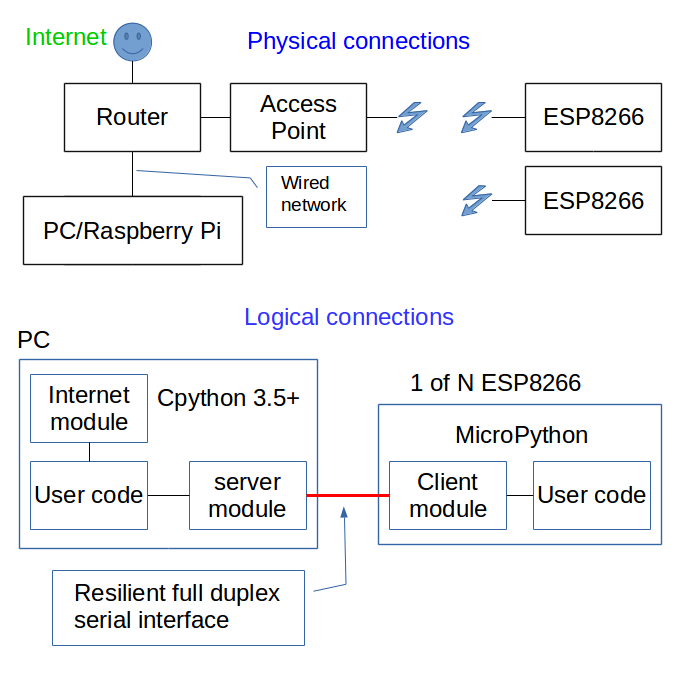
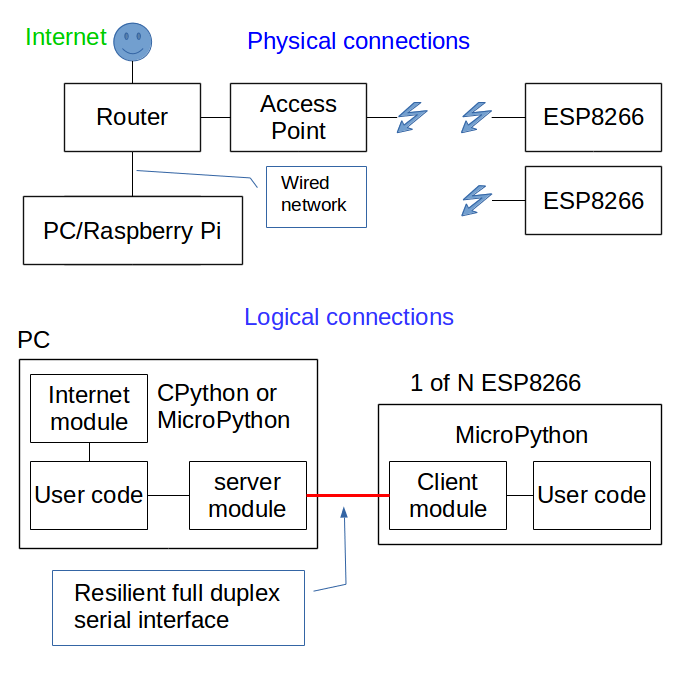
Server side: make code portable to MicroPython.

diff --git a/server_cp.py b/server_cp.py
@@ -10,13 +10,23 @@
 # This server and the server applications are assumed to reside on a device
 # with a wired interface on the local network.
 
-# Run under CPython 3.5+
+# Run under CPython 3.5+ or MicroPython Unix build
+import sys
+upython = sys.implementation.name == 'micropython'
+if upython:
+    import usocket as socket
+    import uasyncio as asyncio
+    import utime as time
+    import uselect as select
+    import uerrno as errno
+    import primitives
+else:
+    import socket
+    import asyncio
+    import time
+    import select
+    import errno
 
-import socket
-import asyncio
-import time
-import select
-import errno
 from local import PORT, TIMEOUT
 
 TO_SECS = TIMEOUT / 1000  # ms to seconds
@@ -32,9 +42,11 @@ async def _readid(s):
     while True:
         try:
             d = s.recv(1).decode()
-        except socket.error as e:
+        except OSError as e:
             err = e.args[0]
-            if err == errno.EAGAIN or err == errno.EWOULDBLOCK:
+            if err == errno.EAGAIN:
+                # Note: did have or err == errno.EWOULDBLOCK. Not supported in
+                # upython. In cpython EWOULDBLOCK == EAGAIN == 11.
                 await asyncio.sleep(TIM_SHORT)
             else:
                 raise OSError  # Reset by peer 104
@@ -52,7 +64,9 @@ async def client_conn(client_id):
     while True:
         if client_id in Connection.conns:
             c = Connection.conns[client_id]
-            await c
+            # await c 
+            # works but under CPython produces runtime warnings. So do:
+            await c._status_coro()
             return c
         await asyncio.sleep(0.5)
 
@@ -105,9 +119,10 @@ class Connection:
         if cls.server_sock is None:  # 1st invocation
             cls.server_sock = s_sock
             cls.expected.update(expected)
-        if client_id not in cls.conns:  # New client: instantiate Connection
-            Connection(loop, client_id, verbose)
-        cls.conns[client_id].sock = c_sock
+        if client_id in cls.conns:  # Old client, new socket
+            cls.conns[client_id].sock = c_sock
+        else: # New client: instantiate Connection
+            Connection(loop, c_sock, client_id, verbose)
 
     @classmethod
     def close_all(cls):
@@ -116,7 +131,8 @@ class Connection:
         if cls.server_sock is not None:
             cls.server_sock.close()
 
-    def __init__(self, loop, client_id, verbose):
+    def __init__(self, loop, c_sock, client_id, verbose):
+        self.sock = c_sock  # Socket
         self.client_id = client_id
         self.verbose = verbose
         Connection.conns[client_id] = self
@@ -124,23 +140,25 @@ class Connection:
             Connection.expected.remove(client_id)
         except KeyError:
             print('Warning: unexpected or duplicate client:', client_id, Connection.expected)
-        self.lock = asyncio.Lock()
-        self.sock = None  # Socket
+        if upython:
+            self.lock = primitives.Lock()
+        else:
+            self.lock = asyncio.Lock()
         loop.create_task(self._keepalive())
         self.lines = []
         loop.create_task(self._read())
 
     async def _read(self):
         while True:
-            await self
+            await self._status_coro()
             buf = bytearray()
             start = time.time()
             while self.status():
                 try:
                     d = self.sock.recv(4096)
-                except socket.error as e:
+                except OSError as e:
                     err = e.args[0]
-                    if err == errno.EAGAIN or err == errno.EWOULDBLOCK:
+                    if err == errno.EAGAIN:
                         if time.time() - start > TO_SECS:
                             self._close()
                         await asyncio.sleep(TIM_TINY)  # Limit CPU utilisation
@@ -148,7 +166,7 @@ class Connection:
                         self._close()  # Reset by peer 104
                 else:
                     start = time.time()  # Something was received
-                    if d == '':  # Reset by peer
+                    if d == b'':  # Reset by peer
                         self._close()
                     elif d is not None:
                         buf.extend(d)
@@ -162,7 +180,13 @@ class Connection:
         return self.sock is not None
 
     def __await__(self):
-        return self._status_coro().__await__()
+        if upython:
+            while not self.status():
+                yield TIM_SHORT
+        else:
+            return self._status_coro().__await__()
+    
+    __iter__ = __await__
 
     async def _status_coro(self):
         while not self.status():
@@ -172,7 +196,7 @@ class Connection:
         while True:
             if self.verbose and not self.status():
                 print('Reader Client:', self.client_id, 'awaiting OK status')
-            await self
+            await self._status_coro()
             self.verbose and print('Reader Client:', self.client_id, 'OK')
             while self.status():
                 if len(self.lines):
@@ -197,7 +221,7 @@ class Connection:
         while True:
             if self.verbose and not self.status():
                 print('Writer Client:', self.client_id, 'awaiting OK status')
-            await self
+            await self._status_coro()
             self.verbose and print('Writer Client:', self.client_id, 'OK')
             try:
                 async with self.lock:  # >1 writing task?
@@ -220,8 +244,8 @@ class Connection:
         while len(d):
             try:
                 ns = self.sock.send(d)  # Raise OSError if client fails
-            except socket.error as e:
-                raise OSError
+            except OSError:
+                raise
             else:
                 d = d[ns:]
                 if len(d):

diff --git a/comms/s_comms_cp.py b/comms/s_comms_cp.py
@@ -7,14 +7,25 @@
 
 # Released under the MIT licence.
 # Copyright (C) Peter Hinch 2018
+import sys
+upython = sys.implementation.name == 'micropython'
 
-import asyncio
-import json
+if upython:
+    import uasyncio as asyncio
+    import ujson as json
+    import primitives
+else:
+    import asyncio
+    import json
 import server_cp as server
+
 
 class App():
     data = None
-    trig_send = asyncio.Event()
+    if upython:
+        trig_send = primitives.Event()
+    else:
+        trig_send = asyncio.Event()
     def __init__(self, loop, client_id):
         self.client_id = client_id  # This instance talks to this client
         self.conn = None  # Connection instance

diff --git a/qos/s_qos_cp.py b/qos/s_qos_cp.py
@@ -9,10 +9,16 @@
 
 # The App class emulates a user application intended to service a single
 # client.
-
-import asyncio
-import json
+try:
+    import asyncio
+except ImportError:
+    import uasyncio as asyncio
+try:
+    import json
+except ImportError:
+    import ujson as json
 import server_cp as server
+
 from local import TIMEOUT
 
 class App():

diff --git a/s_app_cp.py b/s_app_cp.py
@@ -11,8 +11,14 @@
 # client. In this case we have four instances of the application servicing
 # clients with ID's 1-4.
 
-import asyncio
-import json
+try:
+    import asyncio
+except ImportError:
+    import uasyncio as asyncio
+try:
+    import json
+except ImportError:
+    import ujson as json
 import server_cp as server
 
 class App:

diff --git a/primitives.py b/primitives.py
@@ -46,6 +46,10 @@ class Event:
         self._flag = False
         self._data = None
 
+    async def wait(self):  # CPython comptaibility
+        while not self._flag:
+            await asyncio.sleep_ms(self.delay_ms)
+
     def __iter__(self):
         while not self._flag:
             yield from asyncio.sleep_ms(self.delay_ms)

diff --git a/README.md b/README.md
@@ -20,8 +20,8 @@ is capable of long term reliable operation. It does suffer from limited
 resources, in particular RAM. Achieving resilient operation in the face of WiFi
 or server outages is not straightforward: see
 [this document](https://github.com/peterhinch/micropython-samples/tree/master/resilient).
-The approach advocated here radically simplifies writing resilient ESP8266 IOT
-applications.
+The approach advocated here simplifies writing resilient ESP8266 IOT
+applications by providing a communications channel with inherent resilience.
 
 The usual arrangement for MicroPython internet access is as below.
 ![Image](images/block_diagram_orig.png)
@@ -37,10 +37,11 @@ Running internet protocols on ESP8266 nodes has the following drawbacks:
  5. Internet applications can be demanding of RAM.
 
 This document proposes an alternative where the ESP8266 nodes communicate with
-a local server. This runs CPython code and supports the internet protocol
-required by the application. The server and the ESP8266 nodes communicate using
-a simple protocol based on the exchange of lines of text. The server can run on
-a Linux box such as a Raspberry Pi; this can run 24/7 at minimal running cost.
+a local server. This runs CPython or MicroPython code and supports the internet
+protocol required by the application. The server and the ESP8266 nodes
+communicate using a simple protocol based on the exchange of lines of text. The
+server can run on a Linux box such as a Raspberry Pi; this can run 24/7 at
+minimal running cost.
 
 ![Image](images/block_diagram.png)  
 
@@ -52,11 +53,12 @@ Benefits are:
  realistic prospect.
  4. The amount of code running on the ESP8266 is smaller than that required to
  run a resilient internet protocol such as [this MQTT version](https://github.com/peterhinch/micropython-mqtt.git).
- 5. The server side application runs under CPython on a relatively powerful
- device having access to the full suite of Python libraries. Such a platform
- is ideally suited to running an internet protocol. Even minimal hardware has
- the horsepower easily to support TLS, and to maintain concurrent links to
- multiple client nodes. Use of threading is feasible.
+ 5. The server side application runs on a relatively powerful machine. Even
+ minimal hardware such as a Raspberry Pi has the horsepower easily to support
+ TLS and to maintain concurrent links to  multiple client nodes. Use of
+ threading is feasible.
+ 6. The option to use CPython on the server side enables access to the full
+ suite of Python libraries including internet modules.
 
 The principal drawback is that in addition to application code on the ESP8266
 node, application code is also required on the PC to provide the "glue" linking
@@ -98,10 +100,9 @@ socket, but one which persists through outages.
 
 # 2. Design
 
-The code is asynchronous and based on `uasyncio` (`asyncio` on the server
-side). Client applications on the ESP8266 import `client.py` which provides the
-interface to the link. The server side application (written in CPython) uses
-`server_cp.py`.
+The code is asynchronous and based on `asyncio`. Client applications on the
+ESP8266 import `client.py` which provides the interface to the link. The server
+side application uses `server_cp.py`.
 
 Messages are required to be complete lines of text. They typically comprise an
 arbitrary Python object encoded using JSON and terminated with a newline.
@@ -136,7 +137,7 @@ For ESP8266 client:
  2. `c_app.py` Demo client-side application.
  3. `primitives.py` Stripped down version of `asyn.py`.
 
-For server (run under CPython 3.5+):
+For server (run under CPython 3.5+ or MicroPython 1.9.4+):
  1. `server_cp.py` Server module.
  2. `s_app_cp.py` Demo server-side application.
 
@@ -472,13 +473,11 @@ user code. This extends the resilient link to the Pyboard. It uses the
 
 ![Image](images/block_diagram_pyboard.png)
 
-Resilient behaviour includes automatic recovery from WiFi and server outages.
-Also from ESP8266 crashes.
+Resilient behaviour includes automatic recovery from WiFi and server outages;
+also from ESP8266 crashes.
 
 # 10. Planned enhancements
 
 Implement the library as Python packages. Perform configuration with
 constructor args rather than direct import of `config.py`. (Changes offered by
 Kevin Köck).
-
-Ensure that the server side code can also run under MicroPython.
